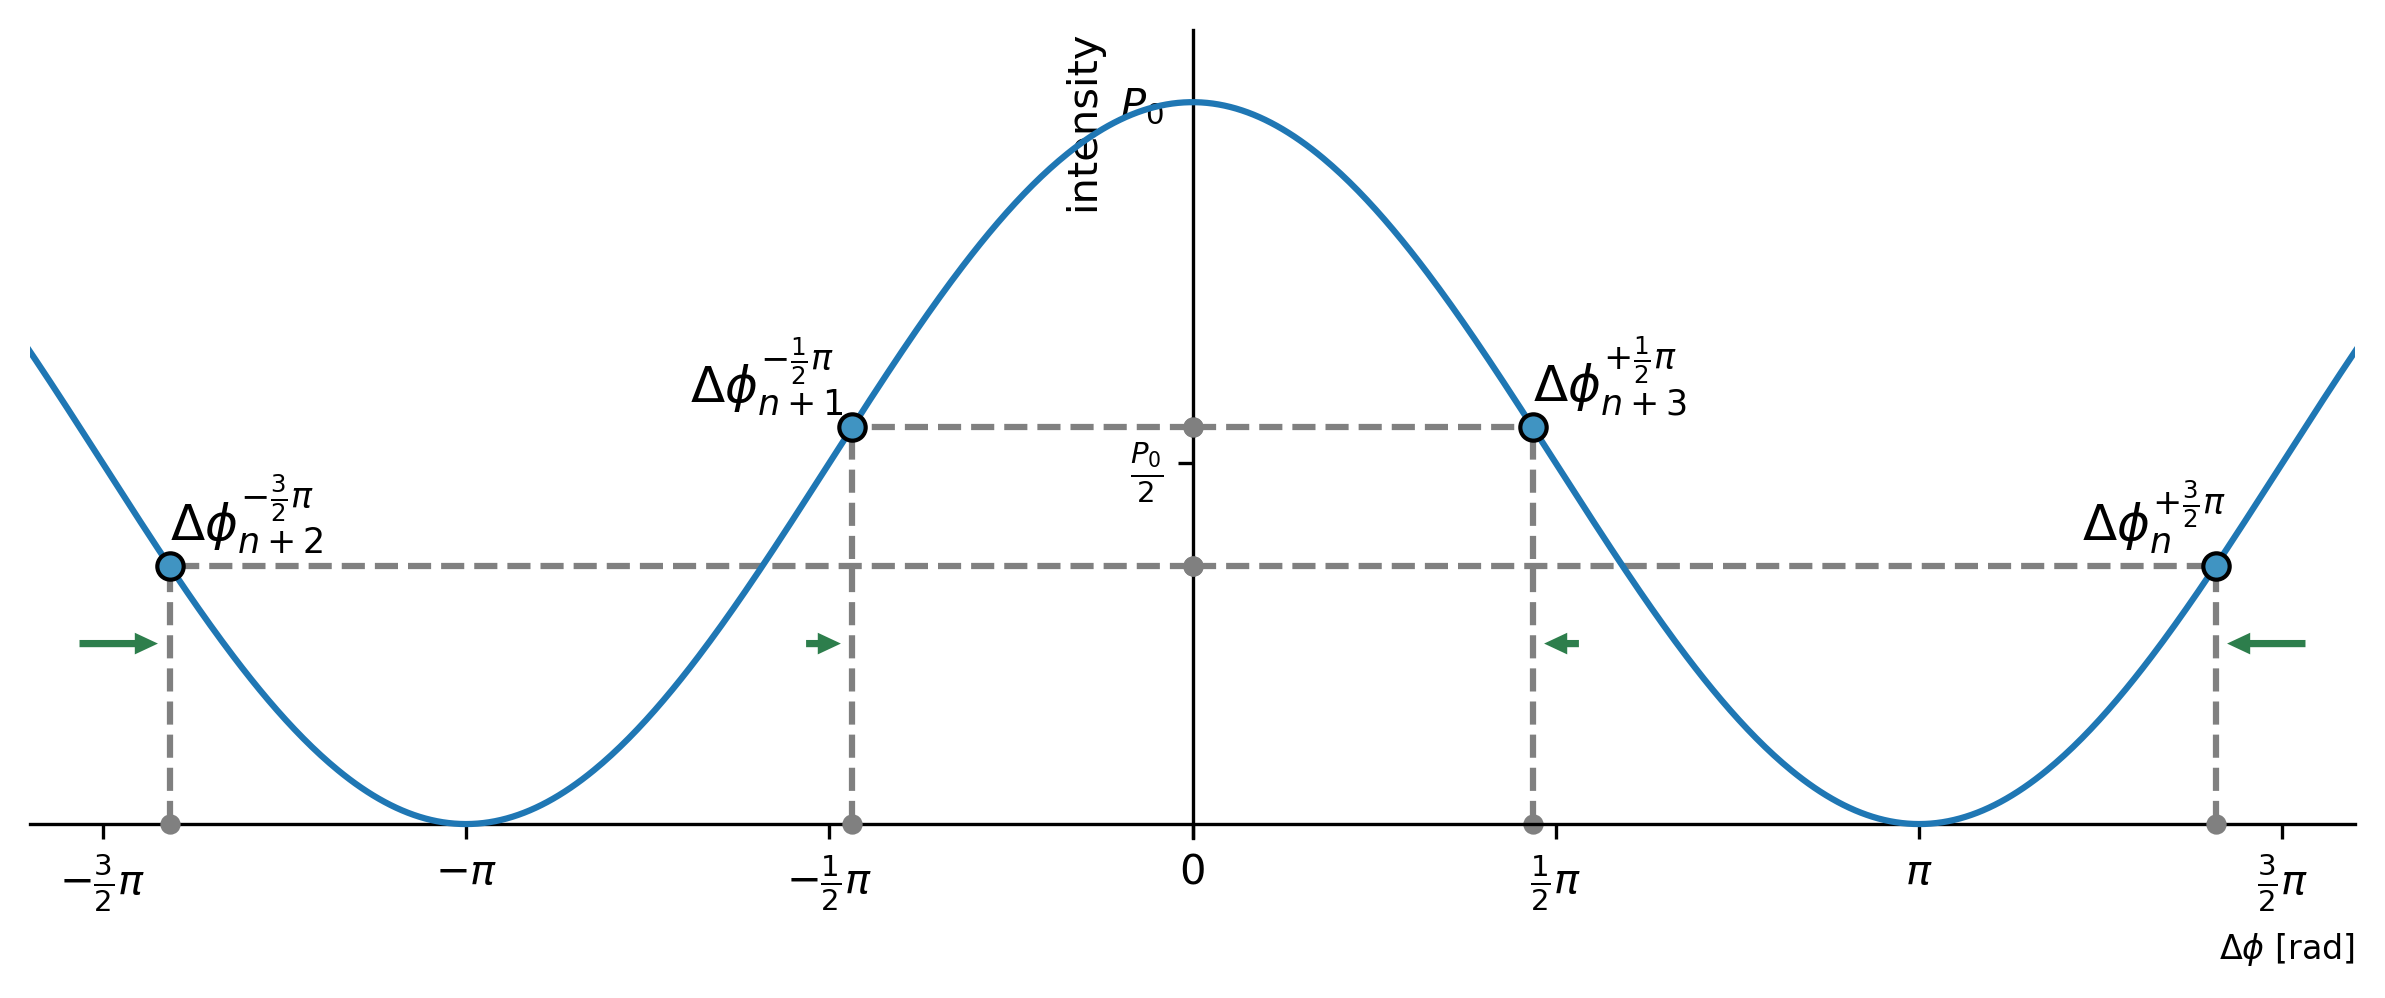
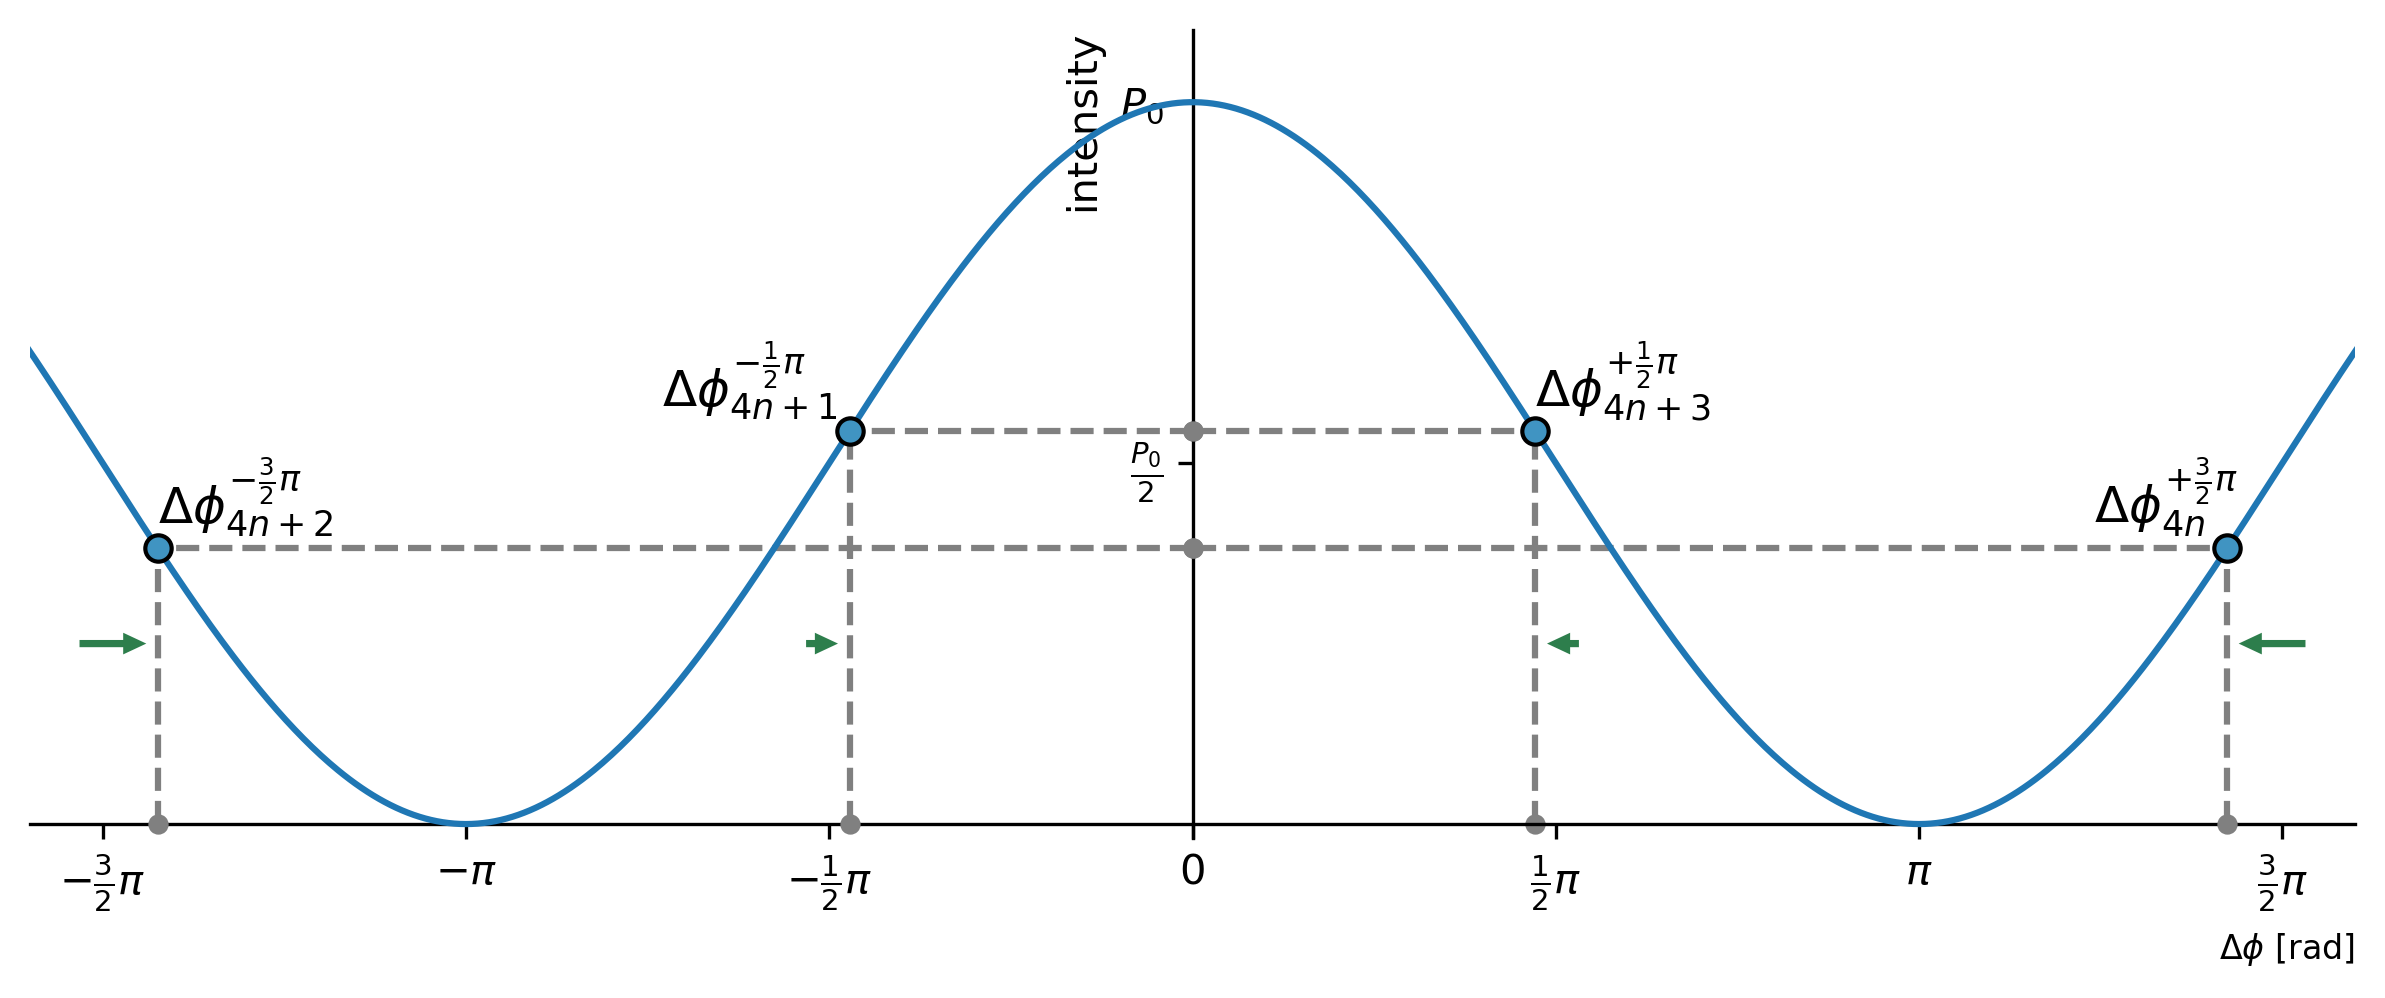
Plots updated.

diff --git a/img/bias.py b/img/bias.py
@@ -23,7 +23,7 @@ n = int(n_nom * factor) + shift
 # point 0 - draw
 ax.scatter(x[(N // 2) + n], y[(N // 2) + n], color="#4094c2", edgecolor='black', marker="o", s=40, zorder=4)
 # point 0 - point annotation
-ax.annotate(r"$\Delta\phi_{n}^{+\frac{3}{2}\pi}$", xy=(x[(N // 2) + n], y[(N // 2) + n]), xytext=(-32, 6), textcoords="offset points", fontsize=12, zorder=4)
+ax.annotate(r"$\Delta\phi_{4n}^{+\frac{3}{2}\pi}$", xy=(x[(N // 2) + n], y[(N // 2) + n]), xytext=(-32, 6), textcoords="offset points", fontsize=12, zorder=4)
 # point 0 - horizontal gray line
 ax.plot([0, x[(N // 2) + n]], [y[(N // 2) + n], y[(N // 2) + n]], color="gray", linestyle="--", zorder=2)
 # point 0 - vertical gray line
@@ -40,7 +40,7 @@ n = int(n_nom * factor) + shift
 # point 1 - draw
 ax.scatter(x[(N // 2) + n], y[(N // 2) + n], color="#4094c2", edgecolor='black', marker="o", s=40, zorder=4)
 # point 1 - point annotation
-ax.annotate(r"$\Delta\phi_{n+1}^{-\frac{1}{2}\pi}$", xy=(x[(N // 2) + n], y[(N // 2) + n]), xytext=(-39, 6), textcoords="offset points", fontsize=12, zorder=4)
+ax.annotate(r"$\Delta\phi_{4n+1}^{-\frac{1}{2}\pi}$", xy=(x[(N // 2) + n], y[(N // 2) + n]), xytext=(-45, 6), textcoords="offset points", fontsize=12, zorder=4)
 # point 1 - horizontal gray line
 ax.plot([0, x[(N // 2) + n]], [y[(N // 2) + n], y[(N // 2) + n]], color="gray", linestyle="--", zorder=2)
 # point 1 - vertical gray line
@@ -57,7 +57,7 @@ n = int(n_nom * factor) + shift
 # point 2 - draw
 ax.scatter(x[(N // 2) + n], y[(N // 2) + n], color="#4094c2", edgecolor='black', marker="o", s=40, zorder=4)
 # point 2 - point annotation
-ax.annotate(r"$\Delta\phi_{n+2}^{-\frac{3}{2}\pi}$", xy=(x[(N // 2) + n], y[(N // 2) + n]), xytext=(0, 6), textcoords="offset points", fontsize=12, zorder=4)
+ax.annotate(r"$\Delta\phi_{4n+2}^{-\frac{3}{2}\pi}$", xy=(x[(N // 2) + n], y[(N // 2) + n]), xytext=(0, 6), textcoords="offset points", fontsize=12, zorder=4)
 # point 2 - horizontal gray line
 ax.plot([0, x[(N // 2) + n]], [y[(N // 2) + n], y[(N // 2) + n]], color="gray", linestyle="--", zorder=2)
 # point 2 - vertical gray line
@@ -74,7 +74,7 @@ n = int(n_nom * factor) + shift
 # point 3 - draw
 ax.scatter(x[(N // 2) + n], y[(N // 2) + n], color="#4094c2", edgecolor='black', marker="o", s=40, zorder=4)
 # point 3 - point annotation
-ax.annotate(r"$\Delta\phi_{n+3}^{+\frac{1}{2}\pi}$", xy=(x[(N // 2) + n], y[(N // 2) + n]), xytext=(0, 6), textcoords="offset points", fontsize=12, zorder=4)
+ax.annotate(r"$\Delta\phi_{4n+3}^{+\frac{1}{2}\pi}$", xy=(x[(N // 2) + n], y[(N // 2) + n]), xytext=(0, 6), textcoords="offset points", fontsize=12, zorder=4)
 # point 3 - horizontal gray line
 ax.plot([0, x[(N // 2) + n]], [y[(N // 2) + n], y[(N // 2) + n]], color="gray", linestyle="--", zorder=2)
 # point 3 - vertical gray line
